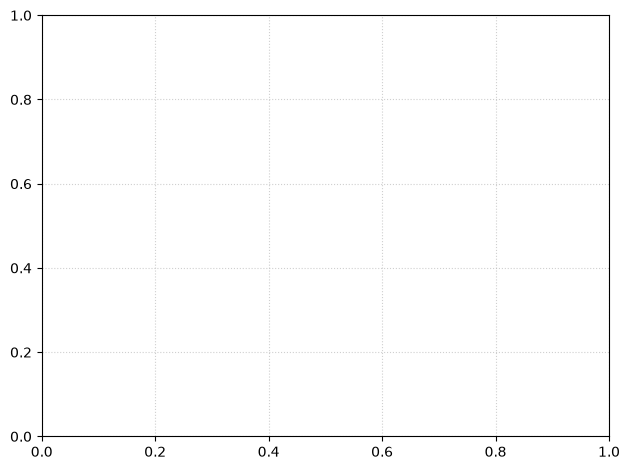
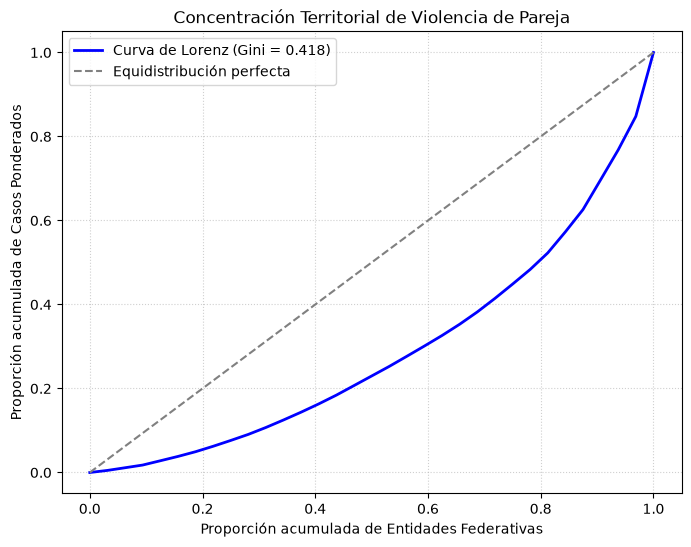
graficas heterogeneidad

diff --git a/src/analysis/medidas_heterogeneidad.py b/src/analysis/medidas_heterogeneidad.py
@@ -4,8 +4,9 @@ from __future__ import annotations
 
 import numpy as np
 import polars as pl
-
-from config.rutas import ARCHIVO_ENDIREH_PROCESADO
+import matplotlib.pyplot as plt
+import seaborn as sns
+from config.rutas import ARCHIVO_ENDIREH_PROCESADO,RUTA_FIGURAS
 
 
 VARIABLES_CUALITATIVAS = [
@@ -86,7 +87,68 @@ def medidas_heterogeneidad(df: pl.DataFrame) -> pl.DataFrame:
                 "Shannon_Entropy": indices["Shannon_Entropy"]
             }
         )
-    return pl.DataFrame(filas)
+    return pl.DataFrame(filas).sort("IQV", descending=True)
+
+def generar_grafica_iqv(df_resultado: pl.DataFrame, show = False) -> None:
+  """Genera un gráfico de barras horizontales del IQV y lo guarda como PNG."""
+  # Convertir a pandas para facilitar el uso con Seaborn/Matplotlib
+  df_pd = df_resultado.to_pandas()
+
+  # Ordenar de menor a mayor para una mejor visualización estética
+  df_sorted = df_pd.sort_values("IQV", ascending=True)
+
+  plt.figure(figsize=(10, 6))
+
+  # Crear el gráfico de barras horizontales
+  # Crear el gráfico de barras horizontales (Corregido para Seaborn moderno)
+  ax = sns.barplot(
+      x="IQV", y="variable", data=df_sorted, palette="Blues_r", hue="variable", legend=False
+  )
+
+  # Añadir etiquetas de los valores en cada barra
+  for p in ax.patches:
+    width = p.get_width()
+    ax.annotate(
+        f"{width:.2f}",
+        (width + 0.02, p.get_y() + p.get_height() / 2.0),
+        ha="left",
+        va="center",
+        fontsize=9,
+        color="black",
+    )
+
+  # Estética de la gráfica
+  plt.title(
+      "Índice de Variación Cualitativa (IQV) por Variable Cualitativa",
+      fontsize=14,
+      weight="bold",
+      pad=15,
+  )
+  plt.xlabel(
+      "IQV (0 = Homogeneidad total / Sesgo, 1 = Máxima Heterogeneidad)",
+      fontsize=11,
+  )
+  plt.ylabel("Variables Cualitativas", fontsize=11)
+  plt.axvline(
+      x=0.5,
+      color="gray",
+      linestyle="--",
+      alpha=0.7,
+      label="Punto de referencia (0.5)",
+  )
+  plt.xlim(0, 1.15)  # Margen para que las etiquetas no se corten
+  plt.legend(loc="lower right")
+  plt.grid(axis="x", linestyle=":", alpha=0.5)
+
+  plt.tight_layout()
+
+  # Guardar la imagen automáticamente en la carpeta del proyecto
+  plt.savefig(RUTA_FIGURAS / "07_barras_iqv.png", dpi=300)
+  print(
+      "[INFO] Gráfica de barras de IQV guardada exitosamente como"
+      " 'barras_iqv.png'"
+  )
+  plt.close()
 
 def main()-> None:
     df = cargar_datos()
@@ -94,6 +156,7 @@ def main()-> None:
     with pl.Config(tbl_rows=20, tbl_cols=20, float_precision=4):
         print("=== MEDIDAS DE heterogeneidad ===")
         print(heterogeneidad)
+    generar_grafica_iqv(heterogeneidad)
 
 
 if __name__ == "__main__":
